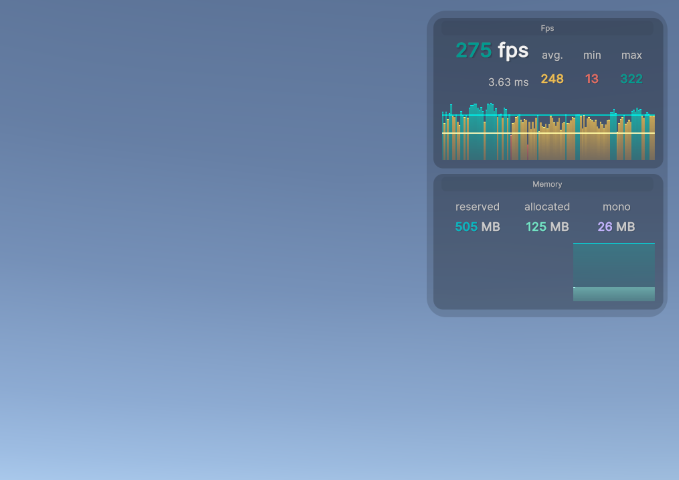
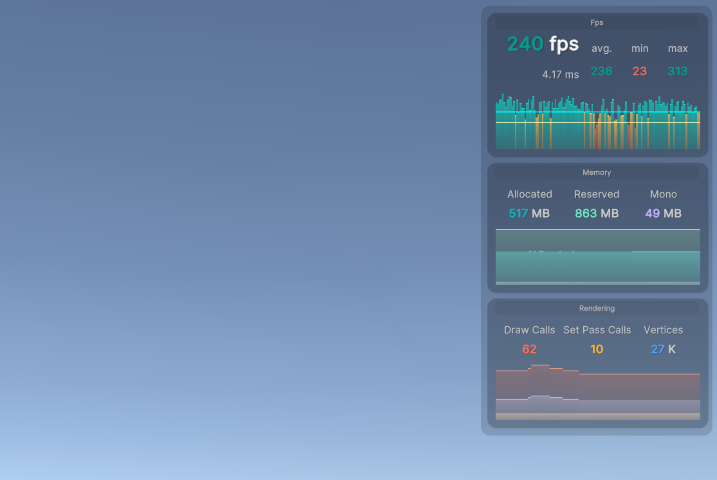
[update] text and screenshot

Changed region(s): [[0.6186, 0.0, 1.0, 0.9062]]

diff --git a/Packages/com.witalosk.unistats/CHANGELOG.md b/Packages/com.witalosk.unistats/CHANGELOG.md
@@ -1,5 +1,10 @@
 # Changelog
 
+## [1.2.0] - 2023-11-14
+### Changes
+- Generalize Memory Module to support any type of data. (Triple Value Module)
+- Added Rendering Module.
+
 ## [1.1.0] - 2023-11-14
 ### Changes
 - The maximum value of the range displayed is used for the maximum value of vertical axis.
